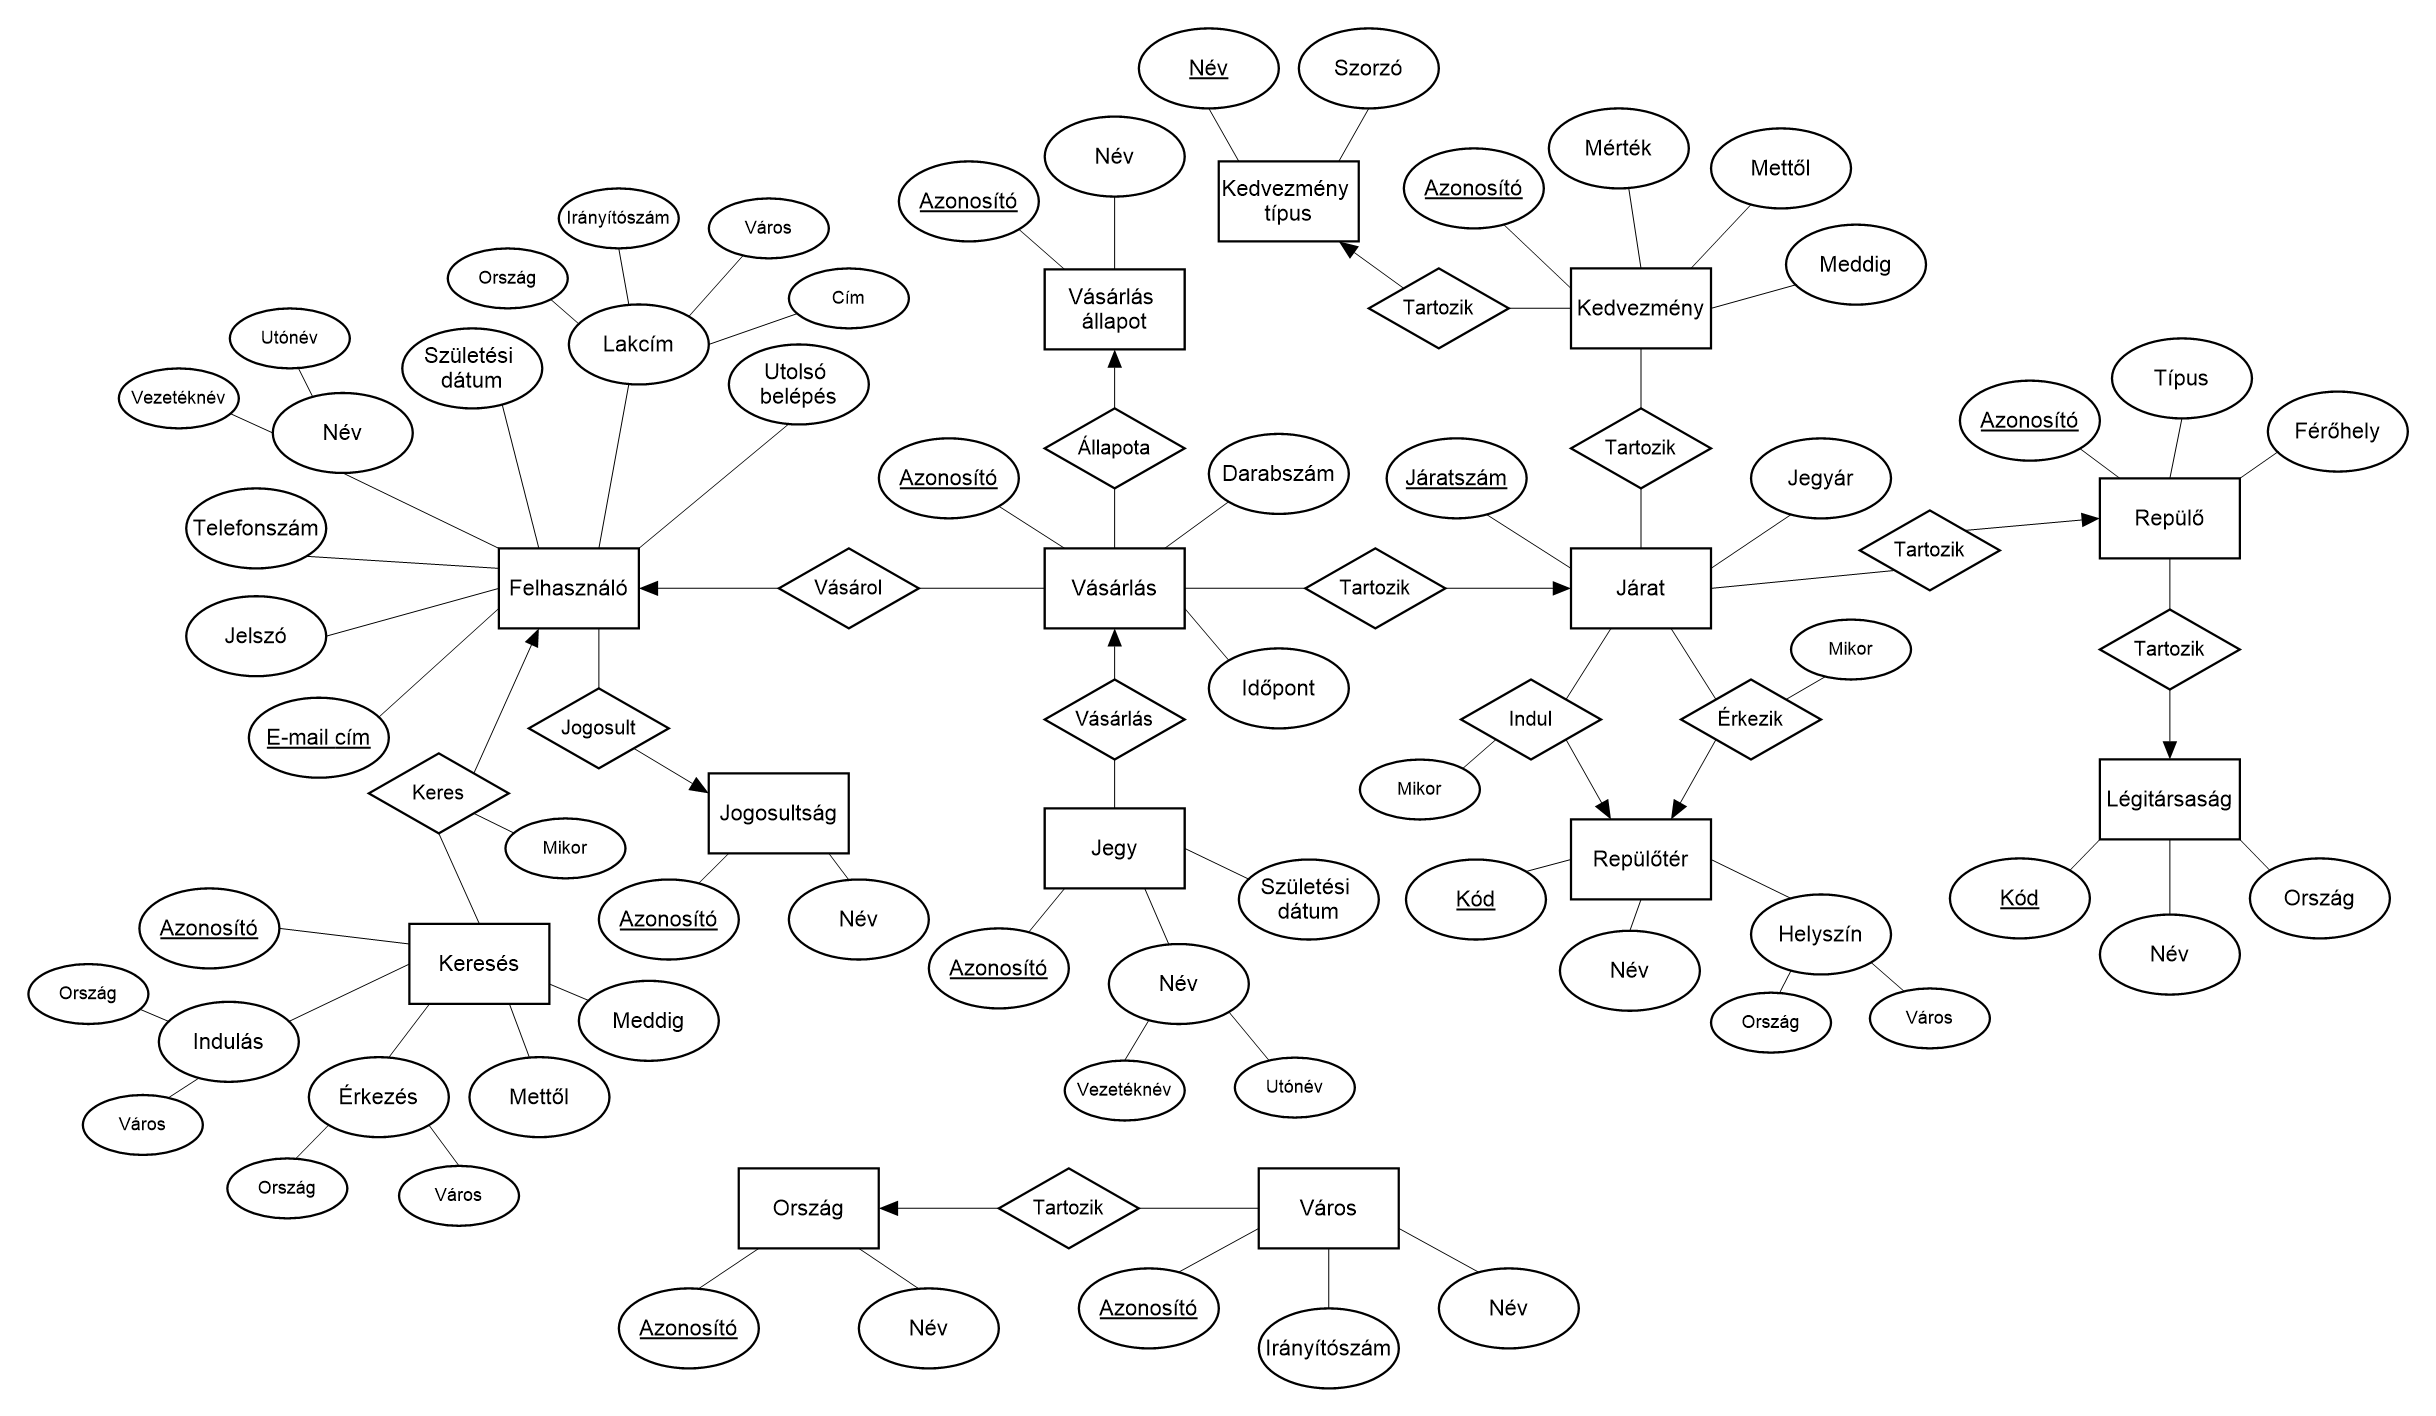
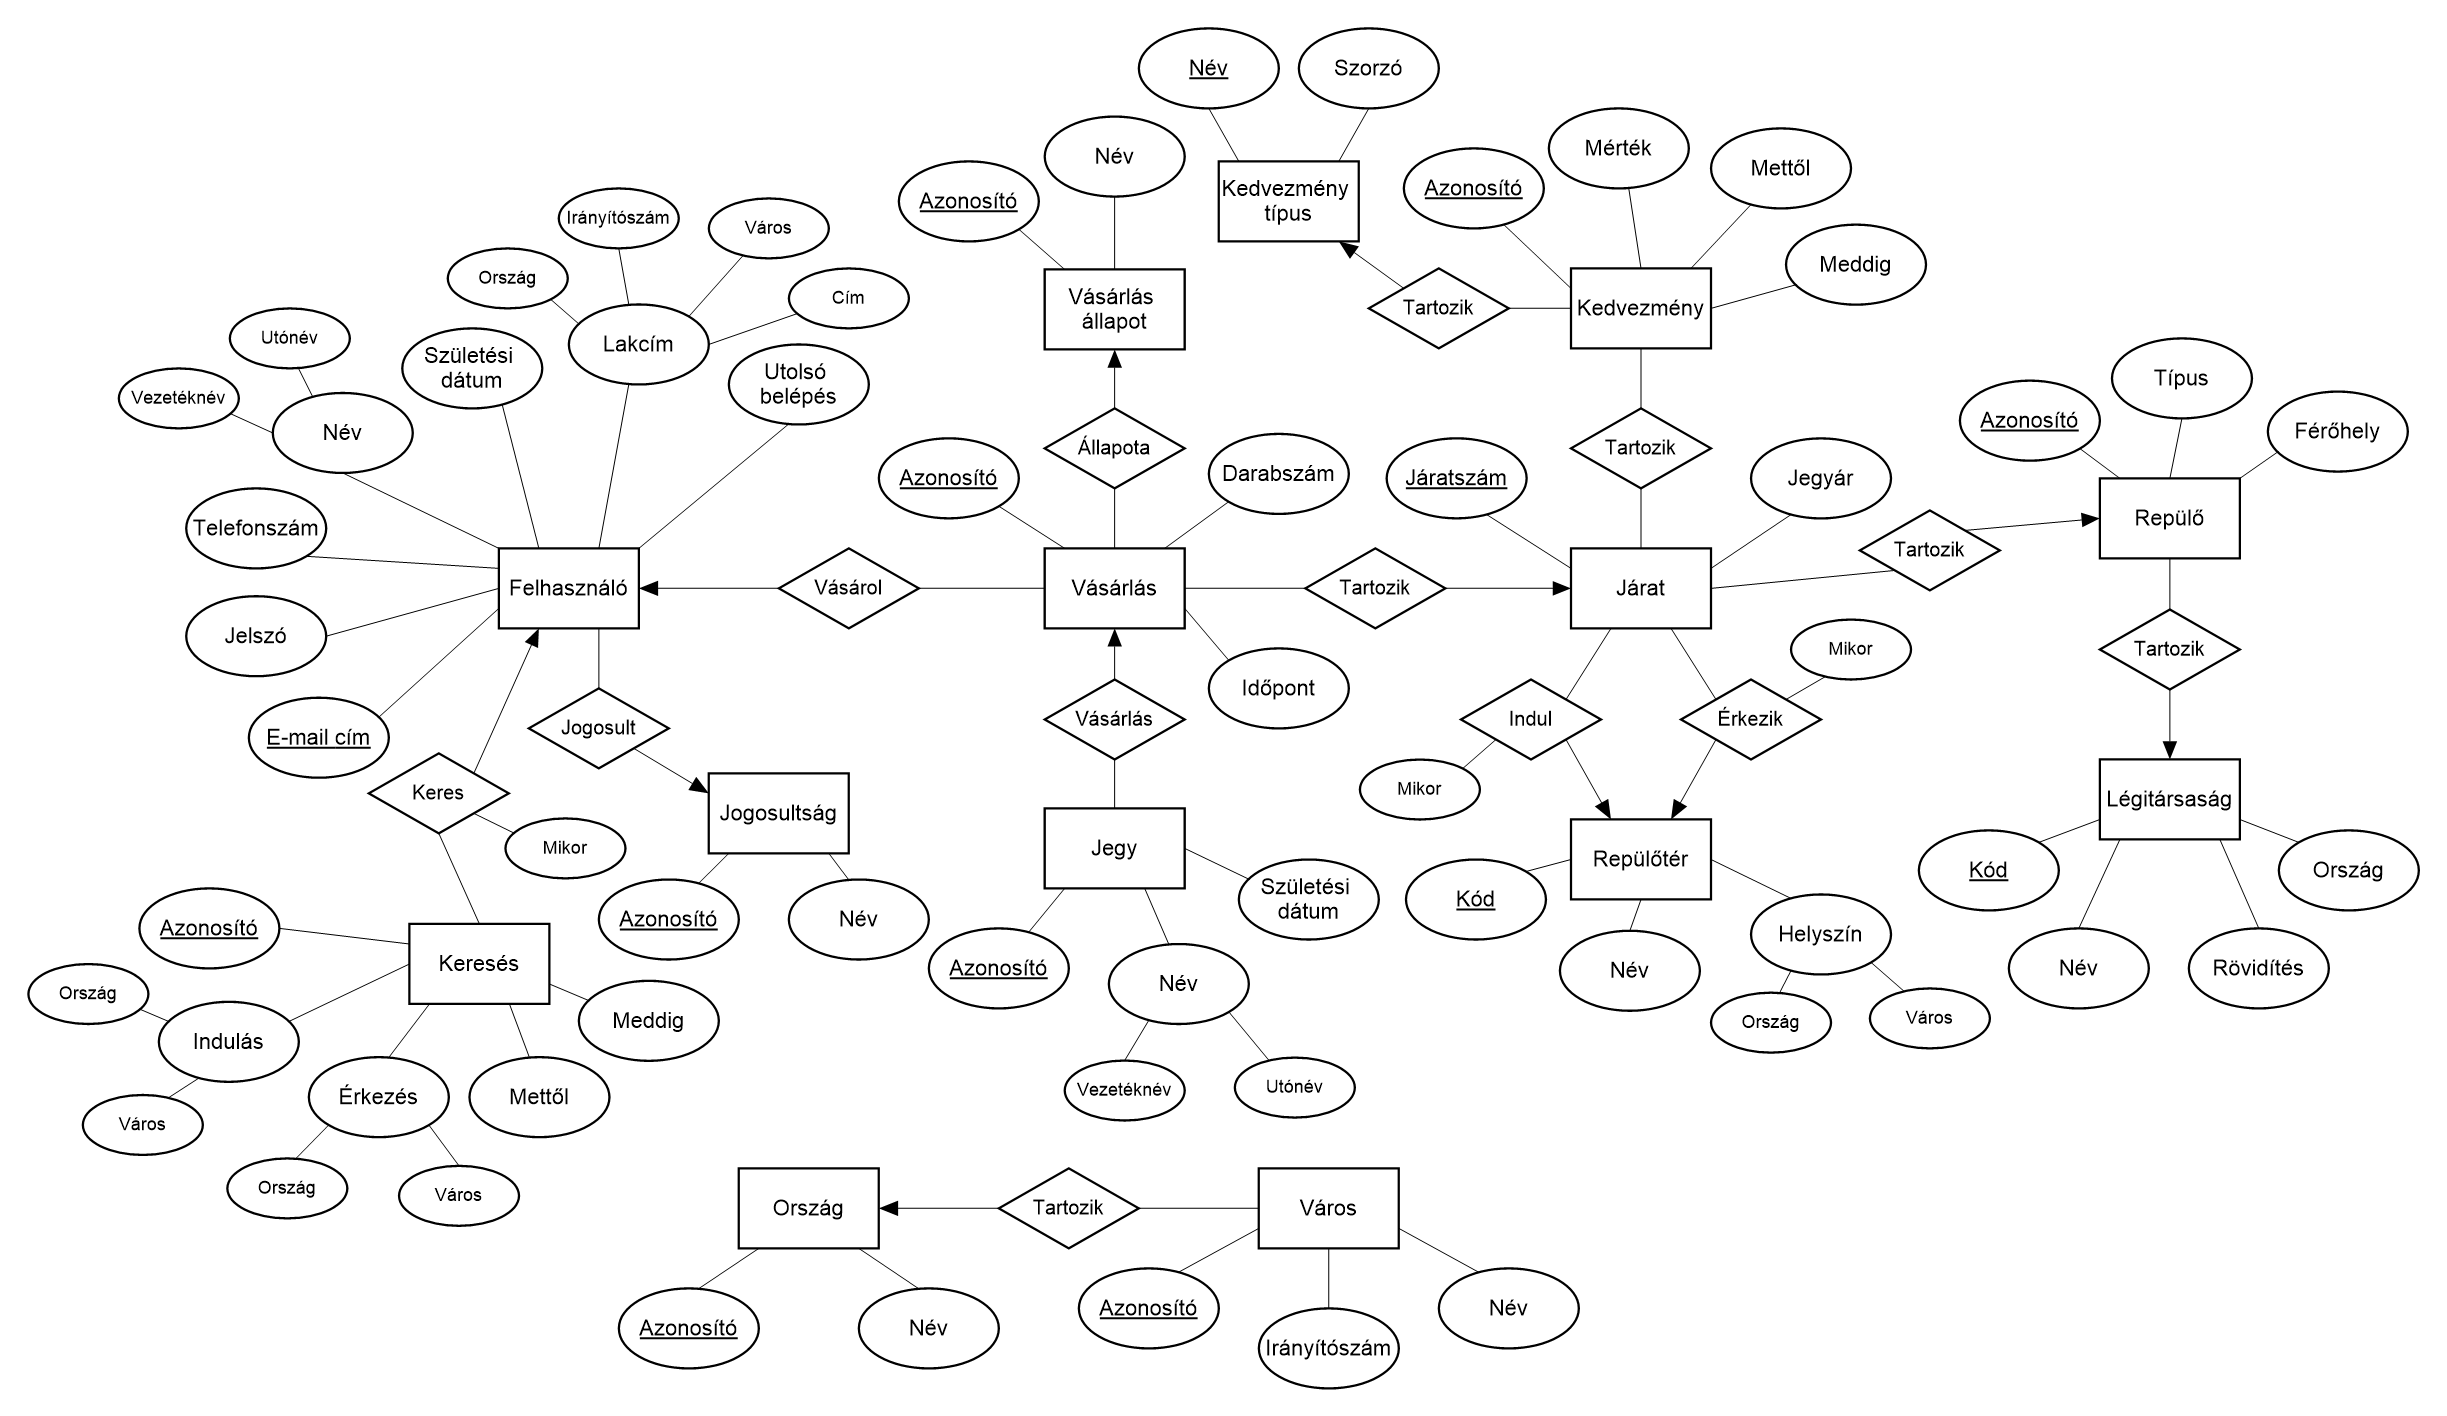
Modify Airline entity

diff --git a/README.md b/README.md
@@ -54,7 +54,7 @@ A látogatók böngészni, keresni tudnak járatokat igényeiknek megfelelően, 
 ## 4. EK diagram leképezése
 Jogosultság(<ins>azonosító</ins>, név)
 Felhasználó(<ins>e-mail</ins>, jelszó, telefonszám, vezetéknév, utónév, születési_dátum, ország, irányítószám, város, cím, *Jogosultság.azonosító*, utolsó_belépés)
-Légitársaság(<ins>kód</ins>, név, ország)
+Légitársaság(<ins>kód</ins>, név, rövidítés, ország)
 Repülő(<ins>azonosító</ins>, repülő_azonosító, *Légitársaság.kód*, típus, férőhely)
 Repülőtér(<ins>kód</ins>, név, ország, város)
 Járat(<ins>járatszám</ins>, *Repülő.azonosító*, jegyár, indulás_idő, *indulás_repülőtér*, érkezés_idő, *érkezés_repülőtér*)
@@ -105,9 +105,10 @@ jogosultsag_azonosito | NUMBER(1)    | A felhasználó jogosultsága
 ### 5.3. Légitársaság
 
 Légitársaság | &nbsp;      | &nbsp;
------------- | ----------- | --------------------------
+------------ | ----------- | ---------------------------------
 kod          | CHAR(3)     | A légitársaság ICAO kódja
 nev          | VARCHAR(50) | A légitársaság teljes neve
+rovidites    | VARCHAR(20) | A légitársaság nevének rövidítése
 orszag       | VARCHAR(35) | A légitársaság székhelye
 
 ### 5.4. Repülő
@@ -143,9 +144,10 @@ erkezes_kod      | CHAR(4)   | A repülőtér kódja, amelyre a repülőgép les
 
 ### 5.7. Kedvezmény típus
 
-Kedvezmény típus | &nbsp;      | &nbsp;
----------------- | ----------- | ---------------------------
-nev              | VARCHAR(20) | A kedvezmény típusának neve
+Kedvezmény típus | &nbsp;       | &nbsp;
+---------------- | ------------ | ---------------------------
+nev              | VARCHAR(20)  | A kedvezmény típusának neve
+szorzo           | NUMBER(1, 2) | A kedvezmény szorzója
 
 ### 5.8. Kedvezmény
 
